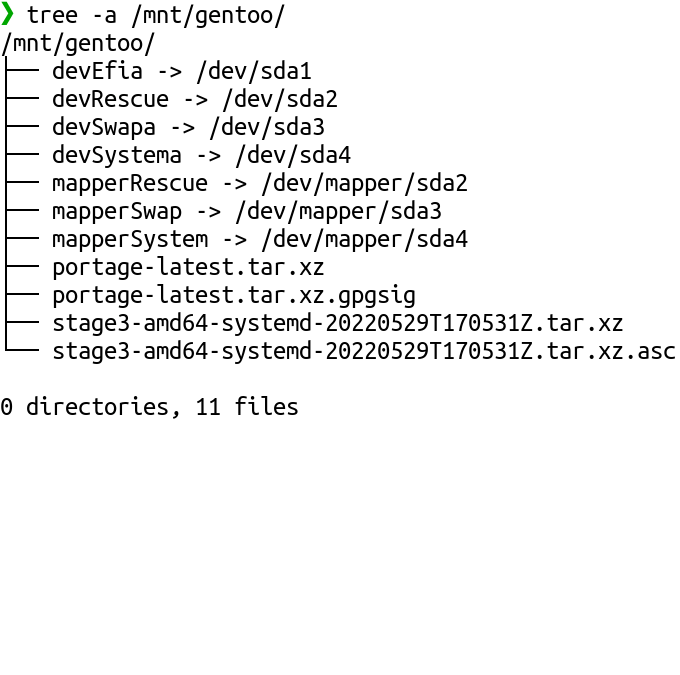
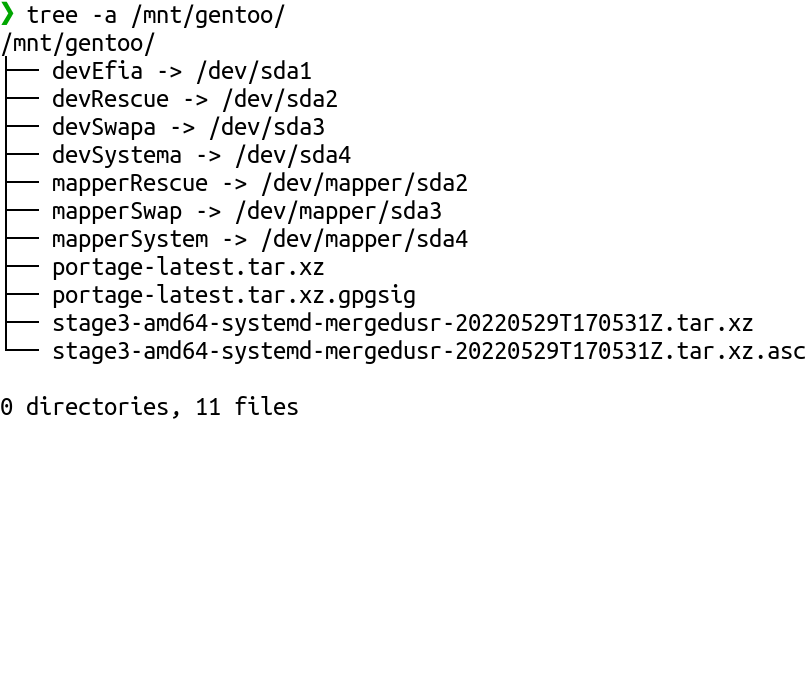
Switch over to merged-usr profiles and stage3

Changed region(s): [[0.0, 0.0, 0.9882, 0.56], [0.0, 0.5911, 0.4324, 0.6222]]

diff --git a/docs/disk_setup.md b/docs/disk_setup.md
@@ -63,7 +63,7 @@ After executing "disk.sh", the btrfs subvolume "@root" [mounted by "disk.sh" at 
 ## 3.4. Tarball Extraction
 
 !!! info 
-    A recent [stage3-amd64-systemd-*.tar.xz](https://distfiles.gentoo.org/releases/amd64/autobuilds/current-stage3-amd64-systemd/) file was downloaded and verified by [fetch_files.sh](https://github.com/duxsco/gentoo-installation/blob/main/bin/fetch_files.sh) which itself was called by [disk.sh](https://github.com/duxsco/gentoo-installation/blob/main/bin/disk.sh#L177). If you work on another architecture, download the correct stage3 tarball (recommended: `stage-<architecture>-systemd-<timestamp>.tar.xz` and `stage-<architecture>-systemd-<timestamp>.tar.xz.asc`) manually and adjust below commands accordingly. Later on, an optional switch to the custom profile [hardened-systemd](https://github.com/duxsco/gentoo-installation/tree/main/overlay/duxsco/profiles/hardened-systemd) and [hardened-systemd-selinux](https://github.com/duxsco/gentoo-installation/tree/main/overlay/duxsco/profiles/hardened-systemd-selinux) both of which making use of [merged-usr](https://www.freedesktop.org/wiki/Software/systemd/TheCaseForTheUsrMerge/) will be done, requiring [modifications of those custom profiles](https://wiki.gentoo.org/wiki/Profile_(Portage)#Creating_custom_profiles) if you use a stage3 tarball other than the ones previously recommended.
+    A recent [stage3-amd64-systemd-mergedusr-*.tar.xz](https://distfiles.gentoo.org/releases/amd64/autobuilds/current-stage3-amd64-systemd-mergedusr/) file was downloaded and verified by [fetch_files.sh](https://github.com/duxsco/gentoo-installation/blob/main/bin/fetch_files.sh) which itself was called by [disk.sh](https://github.com/duxsco/gentoo-installation/blob/main/bin/disk.sh#L177). If you work on another architecture, download the correct stage3 tarball (recommended: `stage3-<architecture>-systemd-mergedusr-<timestamp>.tar.xz` and `stage3-<architecture>-systemd-mergedusr-<timestamp>.tar.xz.asc`) manually and adjust below commands accordingly. Later on, an optional switch to the custom profile [hardened-systemd-merged-usr](https://github.com/duxsco/gentoo-installation/tree/main/overlay/duxsco/profiles/hardened-systemd-merged-usr) and [hardened-systemd-merged-usr-selinux](https://github.com/duxsco/gentoo-installation/tree/main/overlay/duxsco/profiles/hardened-systemd-merged-usr-selinux) both of which making use of [merged-usr](https://www.freedesktop.org/wiki/Software/systemd/TheCaseForTheUsrMerge/) will be done, requiring [modifications of those custom profiles](https://wiki.gentoo.org/wiki/Profile_(Portage)#Creating_custom_profiles) if you use a stage3 tarball other than the ones previously recommended.
 
 [Extract the stage3 tarball](https://wiki.gentoo.org/wiki/Handbook:AMD64/Full/Installation#Unpacking_the_stage_tarball) and copy custom files:
 

diff --git a/docs/selinux.md b/docs/selinux.md
@@ -24,11 +24,11 @@ echo -e "\e[1;32mSUCCESS\e[0m"
 
 For the switch to a SELinux profile, you have two options depending on the profile currently in use:
 
-=== "duxsco:hardened-systemd"
-    If you have switched to [duxsco:hardened-systemd](https://github.com/duxsco/gentoo-installation/tree/main/overlay/duxsco/profiles/hardened-systemd) in section [6.4. (Optional) Hardened Profiles](/portage_setup/#64-optional-hardened-profiles), you can easily "add" SELinux features with a simple switch to [duxsco:hardened-systemd-selinux](https://github.com/duxsco/gentoo-installation/tree/main/overlay/duxsco/profiles/hardened-systemd-selinux):
+=== "duxsco:hardened-systemd-merged-usr"
+    If you have switched to [duxsco:hardened-systemd-merged-usr](https://github.com/duxsco/gentoo-installation/tree/main/overlay/duxsco/profiles/hardened-systemd-merged-usr) in section [6.4. (Optional) Hardened Profiles](/portage_setup/#64-optional-hardened-profiles), you can easily "add" SELinux features with a simple switch to [duxsco:hardened-systemd-merged-usr-selinux](https://github.com/duxsco/gentoo-installation/tree/main/overlay/duxsco/profiles/hardened-systemd-merged-usr-selinux):
 
     ```shell
-    eselect profile set "duxsco:hardened-systemd-selinux"
+    eselect profile set "duxsco:hardened-systemd-merged-usr-selinux"
     ```
 
 === "default/linux/amd64/17.1/systemd"

diff --git a/docs/desktop_profiles.md b/docs/desktop_profiles.md
@@ -2,12 +2,12 @@ At this point, you can consider the switch to a desktop profile:
 
 === "non-SELinux profile"
     ```shell
-    eselect profile set duxsco:hardened-systemd-desktop && \
+    eselect profile set duxsco:hardened-systemd-merged-usr-desktop && \
     emerge -atuDN @world
     ```
 
 === "SELinux profile"
     ```shell
-    eselect profile set duxsco:hardened-systemd-desktop-selinux && \
+    eselect profile set duxsco:hardened-systemd-merged-usr-desktop-selinux && \
     emerge -atuDN @world
     ```

diff --git a/docs/portage_setup.md b/docs/portage_setup.md
@@ -160,7 +160,7 @@ echo "=sys-apps/baselayout-2.9 ~amd64" >> /etc/portage/package.accept_keywords/m
 
 ACCEPT_KEYWORDS="~amd64" emerge --oneshot sys-apps/merge-usr && \
 merge-usr && \
-eselect profile set duxsco:hardened-systemd && \
+eselect profile set duxsco:hardened-systemd-merged-usr && \
 env-update && source /etc/profile && export PS1="(chroot) $PS1" && \
 emerge --oneshot sys-devel/gcc && \
 emerge --oneshot sys-devel/binutils sys-libs/glibc && \
